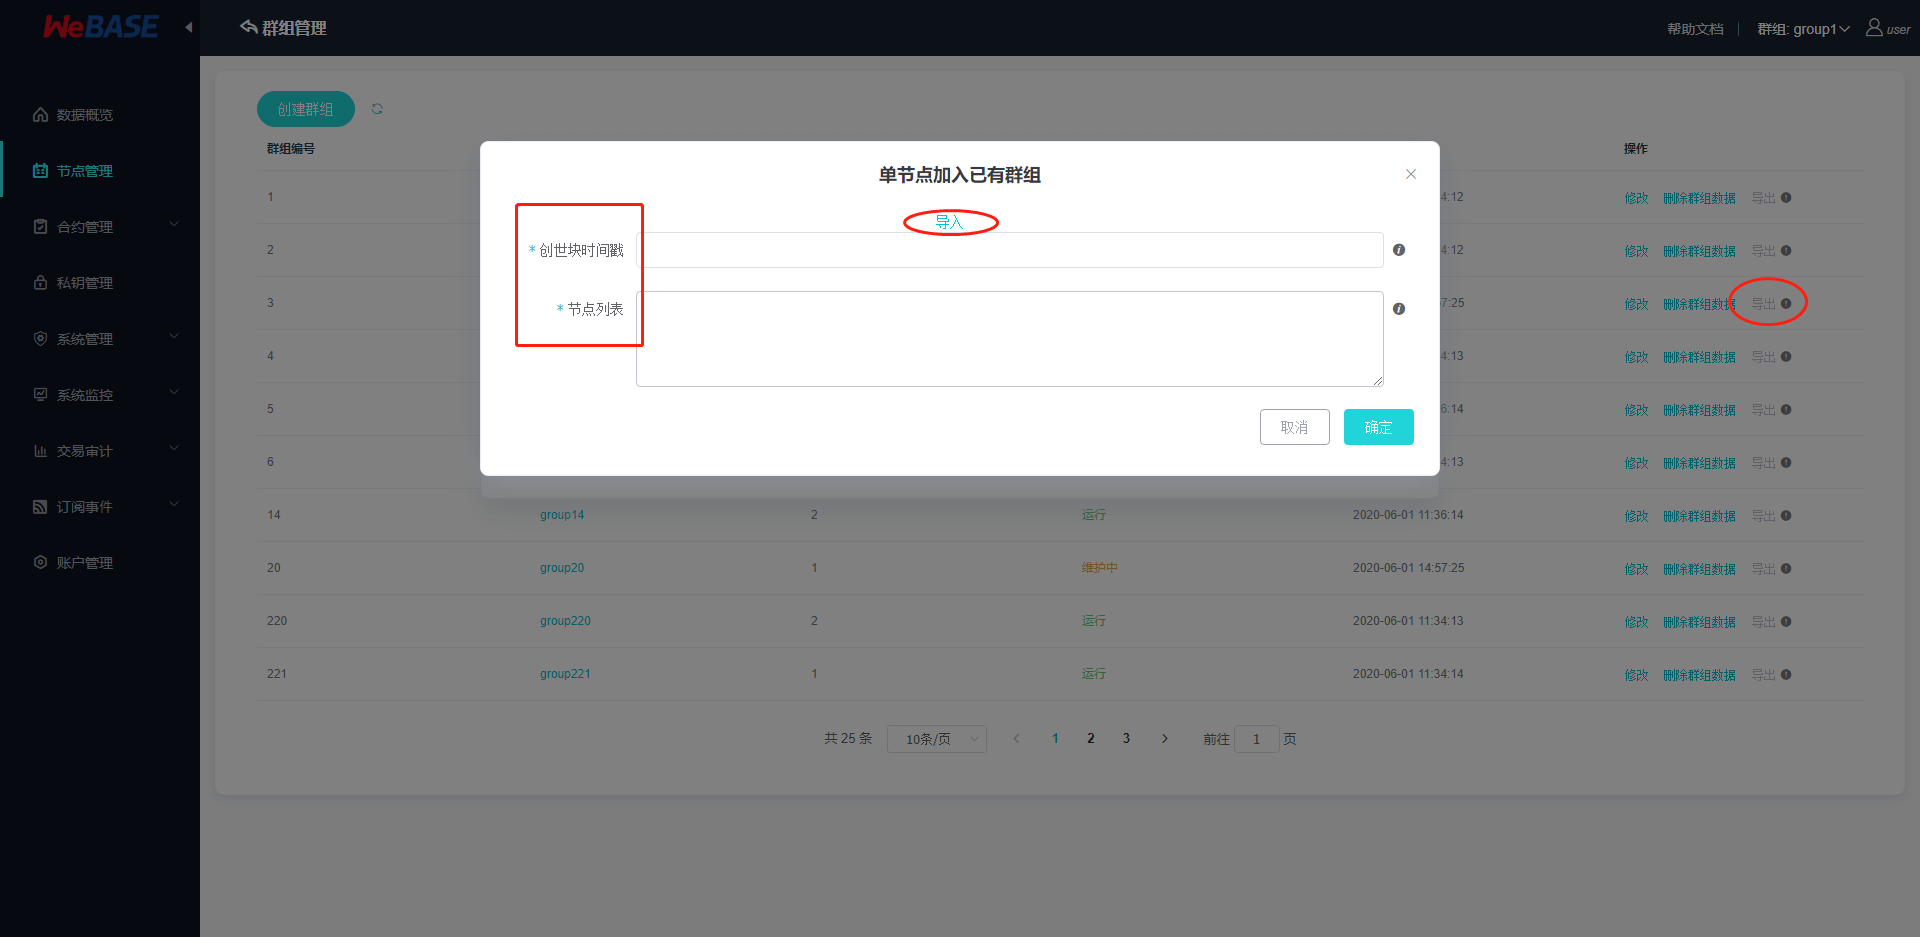
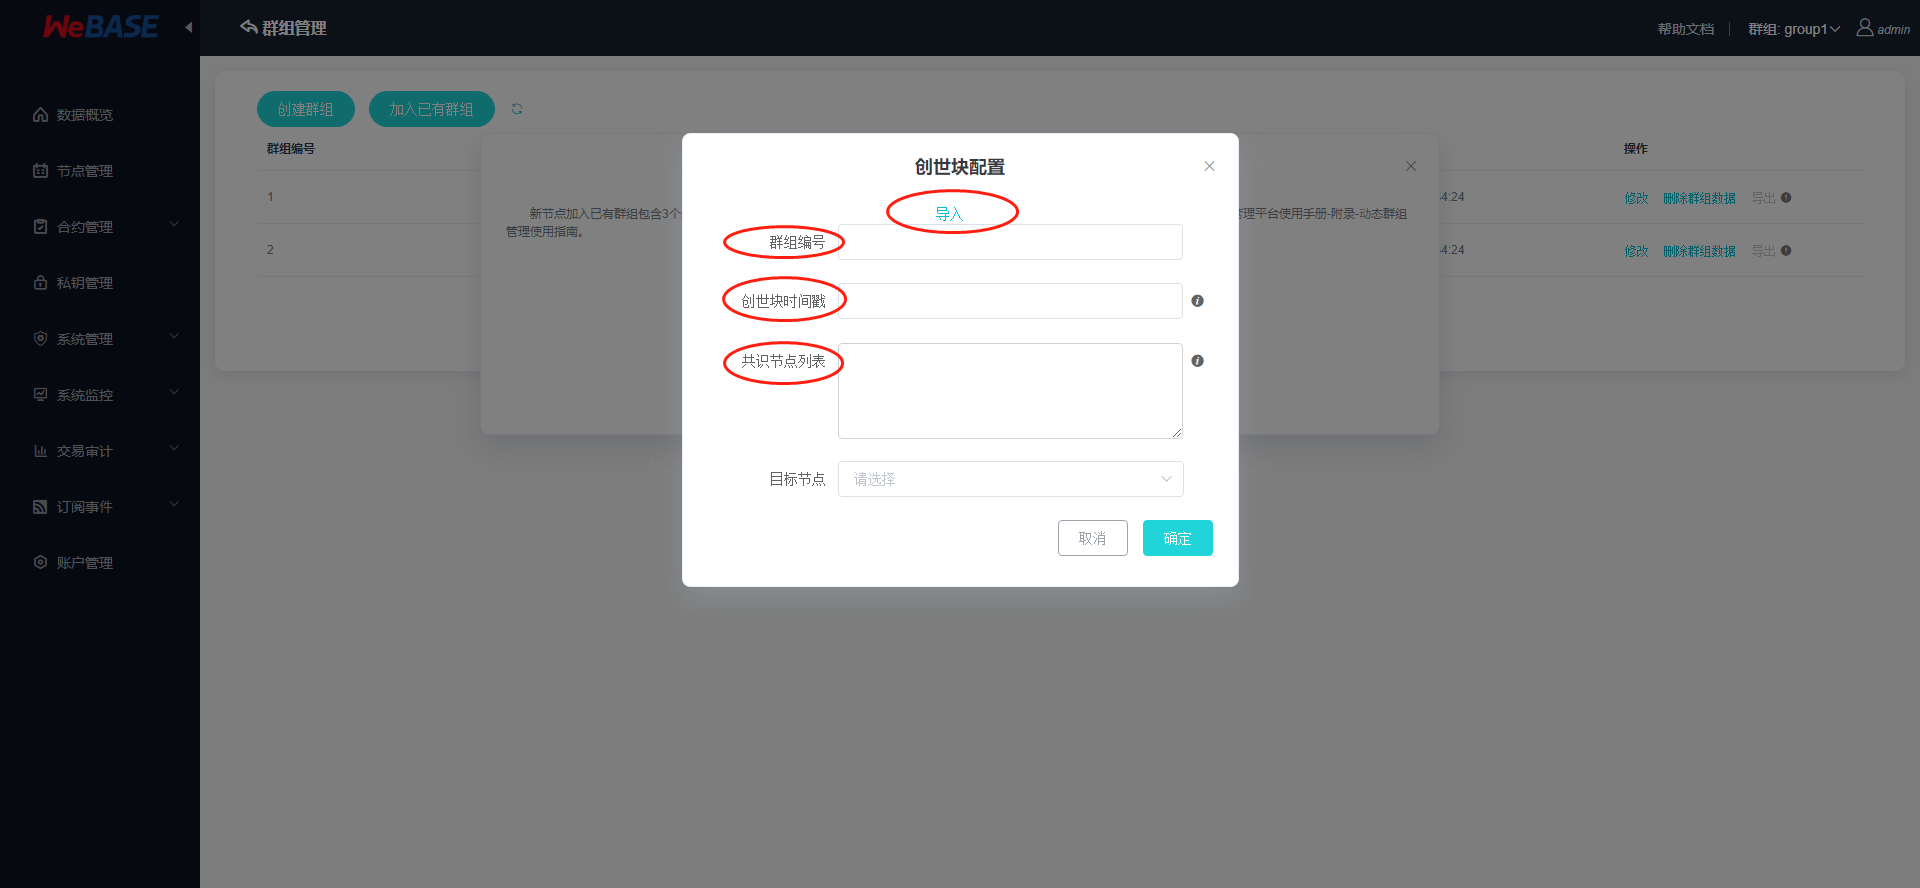
add console-suit pics & dynamic doc

diff --git a/docs/WeBASE-Console-Suit/index.md b/docs/WeBASE-Console-Suit/index.md
@@ -498,3 +498,148 @@ QQ邮箱开通邮箱服务：
 - SMTP协议：默认使用25端口(非SSL)，SSL默认465端口(SSL)或587端口(TLS)
 - POP3/IMAP协议：因为邮箱服务使用的是发邮件功能，未用到POP3或IMAP收件协议，此处仅作端口说明：其中POP3默认110端口(非SSL)和995端口(SSL)，IMAP默认143端口(非SSL)和993端口(SSL)
 - 126邮箱的SSL端口除了587，还可尝试994；在阿里云下25端口被禁用，请尝试587端口或其他端口；
+
+### 动态群组管理使用指南
+
+v1.3.1新增的动态群组功能可以支持用户在可视化页面中动态管理群组，包括创建多个节点的群组、节点加入已有群组等功能
+
+**动态群组管理要求各节点间已建立了P2P连接**
+
+下面我们使用2个节点管理平台，4个节点前置，每个管理台包含两个前置来展示：
+
+管理台1中包含前置A和B，管理台2中包含前置C和D：
+
+管理台1：
+![](../../images/WeBASE-Console-Suit/dynamic_group/nodemgr_1.png)
+管理台2：
+![](../../images/WeBASE-Console-Suit/dynamic_group/nodemgr_2.png)
+
+#### 群组配置解释
+
+动态群组管理包含三个基本操作：**创建群组、启动群组、节点加入群组共识**
+
+**注：节点的动态群组操作是针对单个节点进行的**，即，如果创建一个新群组包含4个节点，则需要对4个节点分别调用“创建”、“启动”命令；如果需要查询群组中各节点的群组状态，也需要对4个节点轮询获取群组状态。
+
+WeBASE已对这一步骤进行了分装，自动批量调用各个节点前置的“创建”、“启动”和“查询群组状态”的接口。
+
+创建群组：
+- 创建群组实际上是调用节点的`generateGroup` JSON RPC接口，传入参数`timestamp`和`sealers`(WeBASE中为`nodeList`)，并在节点的conf目录下生成群组配置文件`group.x.genesis`和`group.x.ini`
+- 其中`group.x.genesis`是群组的创世块配置，包含`timestamp`和`sealers`，，**该配置一旦启动群组之后就不能再修改**，否则引起群组异常。详情可以参考文档[FISCO BCOS-配置文件与配置项](https://fisco-bcos-documentation.readthedocs.io/zh_CN/latest/docs/manual/configuration.html)
+
+启动群组：
+- 启动群组是将节点的群组状态标记为“RUNNING"
+- 启动后，节点进程将读取上文的`group.x.genesis`中的`sealers`项，将`sealers`中的所有节点设置为共识节点，开始共识
+
+因此，如果需要动态创建一个4节点的群组时，需要设置4个节点均为共识节点，可以在`sealers`中加入所有共识节点，然后启动各个节点的群组即可。
+
+但是，如果创建群组时只将其中2个节点设置为`sealers`，那么，**另外2个节点需要加入该群组时，调用创建群组接口时，需要传入相同的`sealers`，即群组原配置中的2个节点**，创建群组并启动后，需要通过“节点管理”（`addSealer/addObserver`接口）将新节点加入共识。不可修改该群组的`sealers`配置，否则将引起群组异常。
+
+下面我们通过**单个管理台批量创建群组**和**多个管理台创建群组并加入群组**这两个例子来了解动态群组管理的注意事项
+
+#### 单个节点管理台-批量创建群组
+
+此处采用单个节点管理台，两个节点前置，动态创建一个2节点的群组group333
+
+批量创建群组指的是向`group.x.genesis-sealers`中所有节点发起创建群组的请求（群组的创世块配置如下所示），这要求所有节点的前置在同一个管理台里，才能一次性对所有节点发起创建群组的请求。
+**若节点分布在多个管理台中，则参考下一小节**。
+
+```
+{
+	// timestamp
+	"groupTimestamp": "1591013023063",
+	"nodeIdList": [
+		// node A
[1 lines of base64/hex data omitted]
+		// node B
[1 lines of base64/hex data omitted]
+	]
+}
+```
+
+选中管理台的两个节点后，将分别对这两个节点发起创建群组、启动群组的请求，
+![](../../images/WeBASE-Console-Suit/dynamic_group/batch_generate_group.png)
+
+创建成功后，可以看到节点A和节点B已经在新群组group333中了；但是可以看到节点列表中还有两个外部节点；节点A、B的群组编号中显示了号码，则代表该群组属于群组的共识节点/观察节点，否则显示"-"代表是游离节点，仅有P2P连接；
+![](../../images/WeBASE-Console-Suit/dynamic_group/batch_generate_after.png)
+
+下一步，我们将处于管理台2的节点C和节点D也加入到这个群组333中来；
+
+#### 多个节点管理台-创建群组并加入群组
+
+此处使用两个节点管理台，更复杂情况可以以此类推。
+
+我们在上面通过管理台1创建了一个由节点A和节点B组成的新群组group333，现在我们把管理台2的节点C和节点D加入到管理台1中创建的群组group333
+
+在管理台1中，进入群组管理，导出群组group333的配置内容
+
+![](../../images/WeBASE-Console-Suit/dynamic_group/export_group_config.png)
+
+加入群组时，用户需要再加入群组后，手动将群组的新节点添加为共识/观察节点；
+
+![](../../images/WeBASE-Console-Suit/dynamic_group/join_group_tips.png)
+
+点击加入已有群组后，导入群组group333的配置；也可以直接键入群组编号、群组时间戳、创世块共识节点列表
+
+![](../../images/WeBASE-Console-Suit/dynamic_group/join_group_config_single.png)
+
+
+选中需要加入该群组的节点后，点击确定；
+![](../../images/WeBASE-Console-Suit/dynamic_group/join_group_select_node.png)
+
+
+
+**注：加入群组后，需要手动将新节点加入到群组的共识/观察节点，节点才会参与新群组的共识**。可以查看新群组的节点，可以看到节点C和节点D的“群组编号”为空，即未参与群组共识
+![](../../images/WeBASE-Console-Suit/dynamic_group/mail_server_config_test.png)
+
+下面我们把节点C和节点D加入到新群组的共识/观察节点列表
+
+由于管理台2中没有已属于群组共识/观察节点的节点，因此需要在**管理台1**中，切换右上角到群组group333，然后将新加入群组的节点C和节点D修改为共识节点/观察节点。（修改节点类型需要管理员权限私钥，如果未启用首个管理员，则任意私钥即可修改）
+![](../../images/WeBASE-Console-Suit/dynamic_group/join_group_add_sealer.png)
+
+全部修改为观察节点后，
+![](../../images/WeBASE-Console-Suit/dynamic_group/join_group_add_sealer_after.png)
+
+点击进入群组管理中，查看群组的节点状态，节点C和节点D的“群组编号”已显示333，代表修改成功了
+
+![](../../images/WeBASE-Console-Suit/dynamic_group/join_group_list_final.png)
+
+**至此，四个节点A/B/C/D成功通过动态群组管理加入到新群组group333中了**
+
+##### 其他情况
+
+- 管理台2中先创建了**含有节点C的群组group9后，将节点D加入group9**；
+
+如果管理台2中的节点C已在新群组group9中，需要将节点D加入该群组，也可以通过点击群组列表中的群组，点击添加，按照与上文类似的提示即可添加成功。
+
+![](../../images/WeBASE-Console-Suit/dynamic_group/join_group_local.png)
+
+添加完成后，右上角切换到对应的群组group9，到“节点管理”页，将该节点设置为共识/观察节点（需要创建私钥用户来发交易），即完成加入群组的操作
+
+创建群组成功
+![](../../images/WeBASE-Console-Suit/dynamic_group/join_group_local_after.png)
+
+修改节点类型
+![](../../images/WeBASE-Console-Suit/dynamic_group/join_group_local_add_sealer.png)
+
+点开群组管理中的group9查看节点状态，可以看到节点C和节点D的群组编号已经显示为"9"，说明节点D已成功加入群组group9
+![](../../images/WeBASE-Console-Suit/dynamic_group/join_group_local_final.png)
+
+
+- 管理台1中先创建**共识节点包含四个节点A/B/C/D的群组group10后，在管理台2将节点C/D直接加入group10，省略加入为共识/观察节点步骤**；
+
+如果一次性创建一个4节点的新群组group4，需要把4个节点的前置都加入到同一个节点管理台，此时，由于`nodeList`中已经设置了4个节点均为共识节点，只需要分别到两个控制台中，通过“加入已有群组”中填入一致的配置，即可创建群组，并可以省去上文的“加入群组共识”这一步了
+
+我们通过管理台1中的“加入已有群组”来自定义共识节点列表，在节点列表中包含所有的4个节点A/B/C/D，然后生成群组group10
+
+![](../../images/WeBASE-Console-Suit/dynamic_group/join_group_batch.png)
+
+我们点开群组列表中的群组group10，可以看到4个节点的群组编号已经显示了"10"，说明4个节点都已经在群组group10的共识/观察节点了
+![](../../images/WeBASE-Console-Suit/dynamic_group/join_group_batch_after.png)
+
+下一步我们只需要按照上文所说的，导出当前群组group10的配置文件，在管理台2中导入配置，选中剩余的节点C和节点D，点击确定
+![](../../images/WeBASE-Console-Suit/dynamic_group/join_group_batch_config.png)
+
+至此，我们就顺利完成创建群组group10的所有操作了！
+![](../../images/WeBASE-Console-Suit/dynamic_group/join_group_batch_finish.png)
+
+
